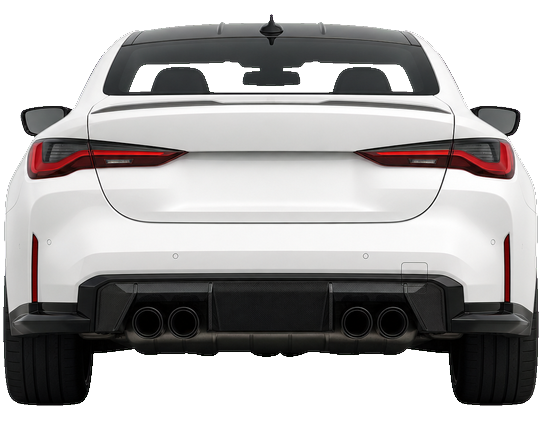
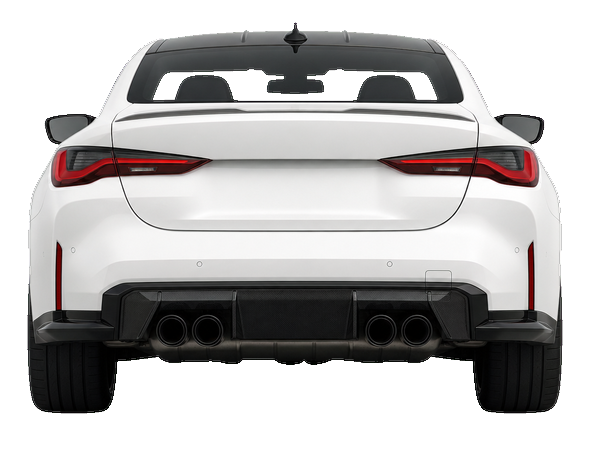
server photo cars

Changed region(s): [[0.0, 0.0298, 1.0, 0.9541]]

diff --git a/mobile/lib/widgets/design_system/car_overlay.dart b/mobile/lib/widgets/design_system/car_overlay.dart
@@ -5,7 +5,7 @@ import 'car_assets.dart';
 import '../remote_car_image.dart';
 
 enum CarOverlayStyle {
-  /// Splash / login / configurator — sized for local podium widget.
+  /// Splash / login / welcome / configurator — car only on transparent canvas.
   hero,
   /// Composited on server background — wheels align to rendered podium.
   backgroundPreview,
@@ -40,17 +40,20 @@ class CarOverlay extends StatelessWidget {
         final h = constraints.maxHeight;
 
         final padding = switch (style) {
-          CarOverlayStyle.hero => EdgeInsets.fromLTRB(w * 0.02, h * 0.04, w * 0.02, h * 0.20),
-          CarOverlayStyle.backgroundPreview => EdgeInsets.fromLTRB(w * 0.04, h * 0.05, w * 0.04, h * 0.27),
+          CarOverlayStyle.hero => EdgeInsets.fromLTRB(w * 0.04, h * 0.06, w * 0.04, h * 0.08),
+          CarOverlayStyle.backgroundPreview => EdgeInsets.fromLTRB(w * 0.05, h * 0.06, w * 0.05, h * 0.24),
         };
 
         return Padding(
           padding: padding,
-          child: RemoteCarImage(
-            imagePath: imagePath,
-            fit: BoxFit.contain,
+          child: Align(
             alignment: Alignment.bottomCenter,
-            tintColor: bodyColor,
+            child: RemoteCarImage(
+              imagePath: imagePath,
+              fit: BoxFit.contain,
+              alignment: Alignment.bottomCenter,
+              tintColor: bodyColor,
+            ),
           ),
         );
       },

diff --git a/mobile/lib/widgets/design_system/car_hero.dart b/mobile/lib/widgets/design_system/car_hero.dart
@@ -3,9 +3,9 @@ import 'package:flutter/material.dart';
 import '../../core/theme/app_tokens.dart';
 import '../../core/theme/design_tokens.dart';
 import 'car_assets.dart';
-import 'car_on_podium.dart';
+import 'car_overlay.dart';
 
-/// BMW M4 G82 hero — car on podium only, theme-aware paint.
+/// BMW M4 G82 hero — theme-aware car image only (no podium strip).
 class CarHero extends StatelessWidget {
   final Color? bodyColor;
   final double height;
@@ -34,11 +34,11 @@ class CarHero extends StatelessWidget {
       child: SizedBox(
         height: height,
         width: double.infinity,
-        child: CarOnPodium(
+        child: CarOverlay(
           view: view,
           tokens: tokens,
           bodyColor: bodyColor,
-          podiumStyle: PodiumStyle.theme,
+          style: CarOverlayStyle.hero,
         ),
       ),
     );

diff --git a/mobile/lib/widgets/remote_car_image.dart b/mobile/lib/widgets/remote_car_image.dart
@@ -63,8 +63,6 @@ class _RemoteCarImageState extends State<RemoteCarImage> {
             bytes,
             fit: widget.fit,
             alignment: widget.alignment,
-            width: double.infinity,
-            height: double.infinity,
             filterQuality: FilterQuality.high,
             gaplessPlayback: true,
             color: widget.tintColor,

diff --git a/mobile/lib/widgets/background_scene_preview.dart b/mobile/lib/widgets/background_scene_preview.dart
@@ -39,7 +39,7 @@ class BackgroundScenePreview extends StatelessWidget {
       children: [
         AuthenticatedBackgroundImage(
           previewPath: previewPath,
-          fit: BoxFit.cover,
+          fit: BoxFit.contain,
         ),
         if (displayCar)
           CarOverlay(

diff --git a/backend/app/services/background_service.py b/backend/app/services/background_service.py
@@ -217,6 +217,8 @@ class BackgroundService:
         return background
 
     async def seed_presets(self) -> None:
+        from app.services.background_asset_service import ensure_preset_background
+
         for definition in PRESET_DEFINITIONS:
             existing = await self._repo.get_preset_by_slug(definition["slug"])
             if existing:
@@ -240,10 +242,7 @@ class BackgroundService:
                 )
                 await self._repo.add_variant(variant)
 
-                image_path = backgrounds_root() / "presets" / preset.slug / f"{angle}.jpg"
-                from app.services.preset_background_renderer import render_preset_background
-
-                render_preset_background(preset.slug, image_path)
+                image_path = ensure_preset_background(preset.slug, angle)
                 variant.image_path = str(image_path)
                 if preview_variant is None or angle == "three_quarter_left":
                     preview_variant = variant
@@ -253,34 +252,22 @@ class BackgroundService:
             await self._repo.update_preset(preset)
 
     async def sync_preset_images(self) -> None:
-        """Ensure preset JPEG previews exist — skip when already generated."""
-        from app.db.models.background import VARIANT_ANGLES
-        from app.services.preset_ai_background_generator import generate_preset_image
-        from app.services.preset_background_renderer import PRESET_SLUGS, render_preset_background
+        """Ensure preset JPEGs on the server match bundled assets."""
+        from app.services.background_asset_service import ensure_preset_background, seed_preset_backgrounds
+        from app.services.preset_background_renderer import PRESET_SLUGS
 
-        api_key = settings.openrouter_api_key
-        has_ai = bool(api_key and api_key != "your_key_here")
+        seed_preset_backgrounds()
 
         for slug in PRESET_SLUGS:
             for angle in VARIANT_ANGLES:
-                image_path = backgrounds_root() / "presets" / slug / f"{angle}.jpg"
-                if image_path.is_file() and image_path.stat().st_size > 10_000:
-                    continue
-                try:
-                    if has_ai:
-                        await generate_preset_image(slug, angle, image_path, api_key)
-                    else:
-                        render_preset_background(slug, image_path)
-                except Exception as exc:
-                    logger.warning("Background generation failed for %s/%s: %s", slug, angle, exc)
-                    render_preset_background(slug, image_path)
+                ensure_preset_background(slug, angle)
 
         presets = await self._repo.list_active_presets()
         for preset in presets:
             if preset.slug not in PRESET_SLUGS:
                 continue
             for variant in preset.variants:
-                image_path = backgrounds_root() / "presets" / preset.slug / f"{variant.angle}.jpg"
+                image_path = ensure_preset_background(preset.slug, variant.angle)
                 variant.image_path = str(image_path)
             await self._repo.update_preset(preset)
 

diff --git a/backend/app/services/background_asset_service.py b/backend/app/services/background_asset_service.py
@@ -1,0 +1,75 @@
+import logging
+import shutil
+from pathlib import Path
+
+from app.config import get_settings
+from app.db.models.background import VARIANT_ANGLES
+
+logger = logging.getLogger(__name__)
+settings = get_settings()
+
+REPO_ROOT = Path(__file__).resolve().parents[3]
+BUNDLED_BACKGROUNDS = REPO_ROOT / "mobile" / "assets" / "backgrounds" / "presets"
+PRESET_SLUGS = ("gray-showroom", "auto-workshop")
+
+
+def backgrounds_root() -> Path:
+    path = Path(settings.upload_dir) / "backgrounds"
+    path.mkdir(parents=True, exist_ok=True)
+    return path
+
+
+def bundled_preset_path(slug: str, angle: str) -> Path:
+    return BUNDLED_BACKGROUNDS / slug / f"{angle}.jpg"
+
+
+def preset_image_path(slug: str, angle: str) -> Path:
+    return backgrounds_root() / "presets" / slug / f"{angle}.jpg"
+
+
+def seed_preset_backgrounds() -> int:
+    """Copy bundled preset JPEGs into upload storage (idempotent)."""
+    if not BUNDLED_BACKGROUNDS.is_dir():
+        logger.warning("Bundled preset backgrounds not found at %s", BUNDLED_BACKGROUNDS)
+        return 0
+
+    copied = 0
+    for slug in PRESET_SLUGS:
+        for angle in VARIANT_ANGLES:
+            src = bundled_preset_path(slug, angle)
+            if not src.is_file():
+                logger.warning("Missing bundled background %s", src)
+                continue
+            dst = preset_image_path(slug, angle)
+            dst.parent.mkdir(parents=True, exist_ok=True)
+            if not dst.exists() or src.stat().st_mtime > dst.stat().st_mtime or src.stat().st_size != dst.stat().st_size:
+                shutil.copy2(src, dst)
+                copied += 1
+
+    if copied:
+        logger.info("Seeded %s preset background image(s) into %s", copied, backgrounds_root() / "presets")
+    return copied
+
+
+def ensure_preset_background(slug: str, angle: str) -> Path:
+    """Return server path for a preset angle, copying bundled asset when needed."""
+    dst = preset_image_path(slug, angle)
+    src = bundled_preset_path(slug, angle)
+    if src.is_file():
+        dst.parent.mkdir(parents=True, exist_ok=True)
+        if (
+            not dst.is_file()
+            or dst.stat().st_size < 10_000
+            or src.stat().st_mtime > dst.stat().st_mtime
+            or src.stat().st_size != dst.stat().st_size
+        ):
+            shutil.copy2(src, dst)
+        return dst
+
+    if dst.is_file() and dst.stat().st_size > 10_000:
+        return dst
+
+    from app.services.preset_background_renderer import render_preset_background
+
+    render_preset_background(slug, dst)
+    return dst

diff --git a/mobile/assets/cars/bmw_m4_g82/clean_assets.py b/mobile/assets/cars/bmw_m4_g82/clean_assets.py
@@ -1,4 +1,4 @@
-"""Remove green-screen spill and re-export BMW M4 G82 car PNG assets."""
+"""Remove green-screen spill, preserve shadows, and add safe padding to car PNG assets."""
 
 from __future__ import annotations
 
@@ -31,7 +31,6 @@ def remove_green_background(img: Image.Image) -> Image.Image:
                 continue
 
             if spill > 12 and a > 0:
-                neutral = (r + b) // 2
                 corrected_g = int(g - spill * 0.92)
                 corrected_g = max(min(corrected_g, 255), min(r, b))
                 pixels[x, y] = (r, corrected_g, b, a)
@@ -39,10 +38,33 @@ def remove_green_background(img: Image.Image) -> Image.Image:
     return img
 
 
-def add_safe_padding(img: Image.Image, *, top: int = 10, bottom: int = 14) -> Image.Image:
-    w, h = img.size
-    canvas = Image.new("RGBA", (w, h + top + bottom), (0, 0, 0, 0))
-    canvas.paste(img, (0, top), img)
+def add_safe_padding(
+    img: Image.Image,
+    *,
+    min_horizontal: int = 24,
+    min_top: int = 12,
+    min_bottom: int = 20,
+) -> Image.Image:
+    """Expand canvas so wheels, mirrors, and ground shadows are never clipped."""
+    img = img.convert("RGBA")
+    bbox = img.getbbox()
+    if not bbox:
+        return img
+
+    left, top, right, bottom = bbox
+    width, height = img.size
+
+    pad_left = min_horizontal if left <= 4 else 8
+    pad_right = min_horizontal if right >= width - 5 else 8
+    pad_top = min_top if top <= 4 else 8
+    pad_bottom = min_bottom if bottom >= height - 5 else min_bottom
+
+    canvas = Image.new(
+        "RGBA",
+        (width + pad_left + pad_right, height + pad_top + pad_bottom),
+        (0, 0, 0, 0),
+    )
+    canvas.paste(img, (pad_left, pad_top), img)
     return canvas
 
 
@@ -56,6 +78,8 @@ def process_file(path: Path) -> None:
 
 def main() -> None:
     for path in sorted(ASSET_DIR.glob("*.png")):
+        if "raw" in path.name:
+            continue
         process_file(path)
 
 

diff --git a/backend/scripts/bundle_preset_backgrounds.py b/backend/scripts/bundle_preset_backgrounds.py
@@ -1,0 +1,33 @@
+#!/usr/bin/env python3
+"""Pre-render preset background JPEGs into mobile/assets/backgrounds for server seeding."""
+
+from __future__ import annotations
+
+import sys
+from pathlib import Path
+
+ROOT = Path(__file__).resolve().parents[2]
+sys.path.insert(0, str(ROOT / "backend"))
+
+from app.db.models.background import VARIANT_ANGLES  # noqa: E402
+from app.services.background_service import PRESET_DEFINITIONS  # noqa: E402
+from app.services.preset_background_renderer import render_preset_background  # noqa: E402
+
+BUNDLED_ROOT = ROOT / "mobile" / "assets" / "backgrounds" / "presets"
+
+
+def main() -> int:
+    generated = 0
+    for definition in PRESET_DEFINITIONS:
+        slug = definition["slug"]
+        for angle in VARIANT_ANGLES:
+            path = BUNDLED_ROOT / slug / f"{angle}.jpg"
+            render_preset_background(slug, path)
+            generated += 1
+            print(f"OK {path.relative_to(ROOT)} ({path.stat().st_size} bytes)")
+    print(f"Bundled {generated} background image(s) into {BUNDLED_ROOT}")
+    return 0
+
+
+if __name__ == "__main__":
+    raise SystemExit(main())

diff --git a/backend/app/services/seed_service.py b/backend/app/services/seed_service.py
@@ -32,8 +32,10 @@ class SeedService:
         await BackgroundService(self._db).seed_presets()
         await BackgroundService(self._db).sync_preset_images()
 
+        from app.services.background_asset_service import seed_preset_backgrounds
         from app.services.car_asset_service import seed_car_assets
 
+        seed_preset_backgrounds()
         seed_car_assets()
 
         admin = await self._users.get_by_email(ADMIN_EMAIL)

diff --git a/mobile/assets/cars/bmw_m4_g82/process_assets.py b/mobile/assets/cars/bmw_m4_g82/process_assets.py
@@ -64,7 +64,7 @@ def remove_green_background(img: Image.Image) -> Image.Image:
     return img
 
 
-def crop_to_content(img: Image.Image, padding: int = 8) -> Image.Image:
+def crop_to_content(img: Image.Image, padding: int = 24) -> Image.Image:
     bbox = img.getbbox()
     if not bbox:
         return img
